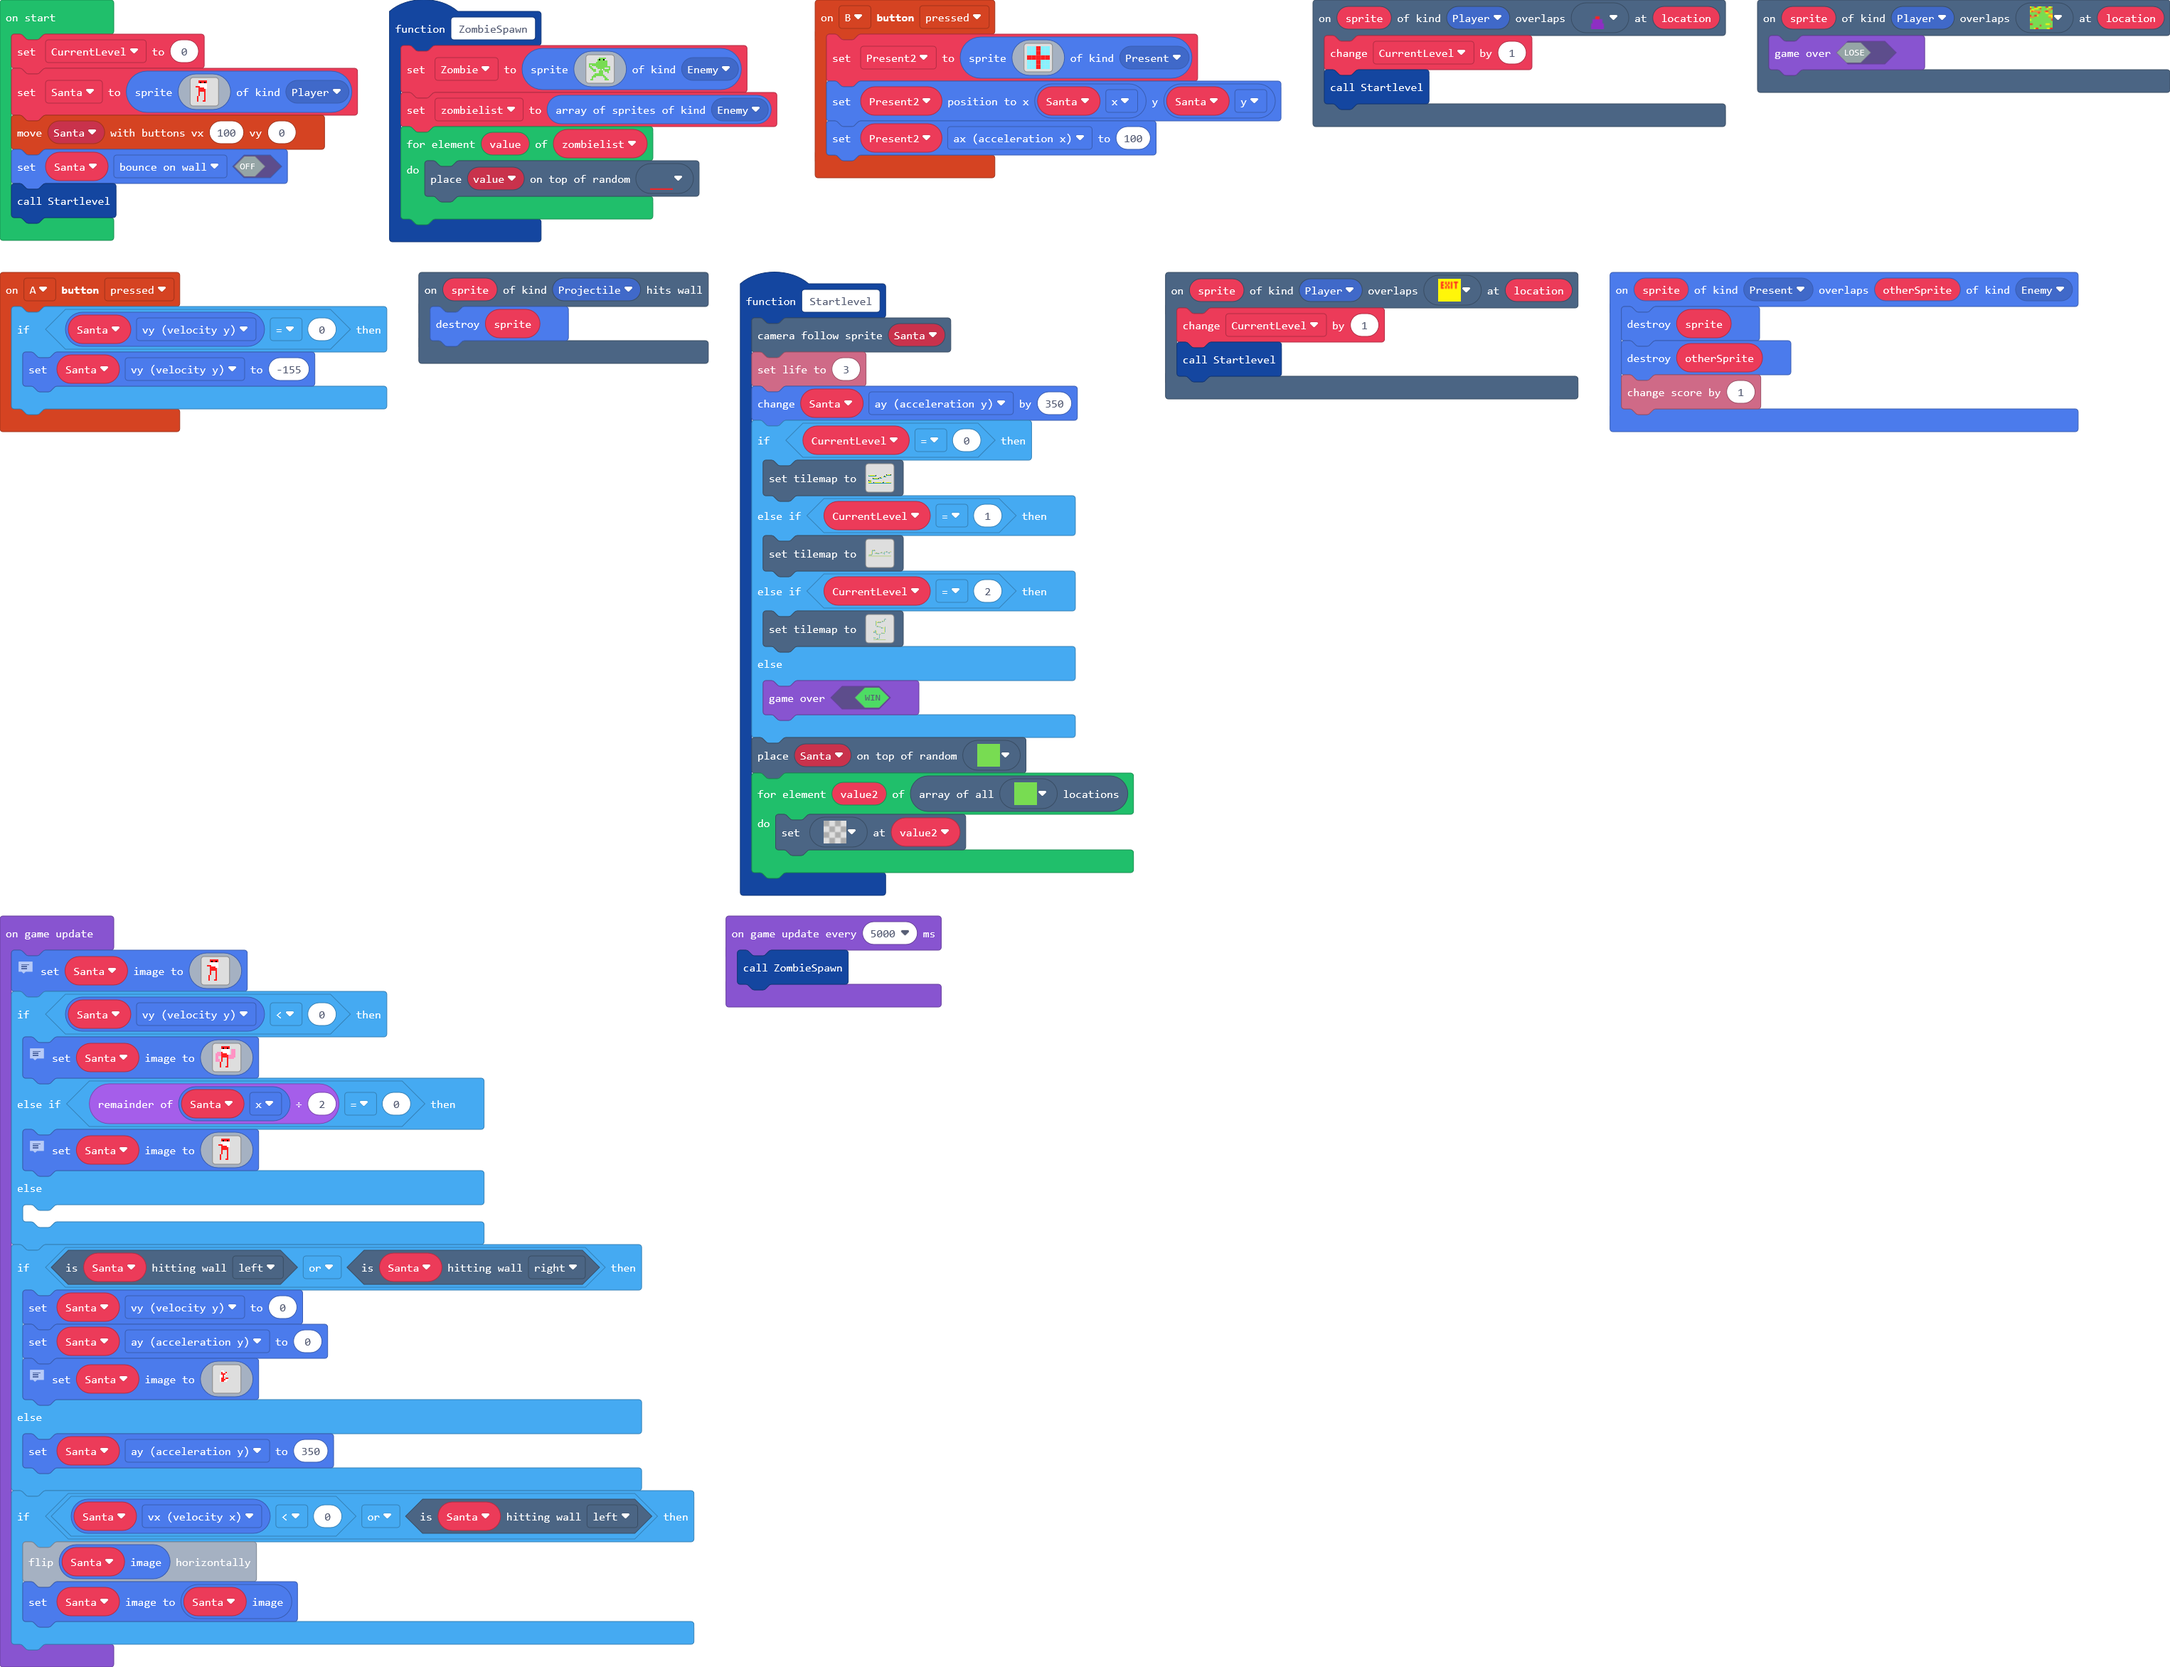
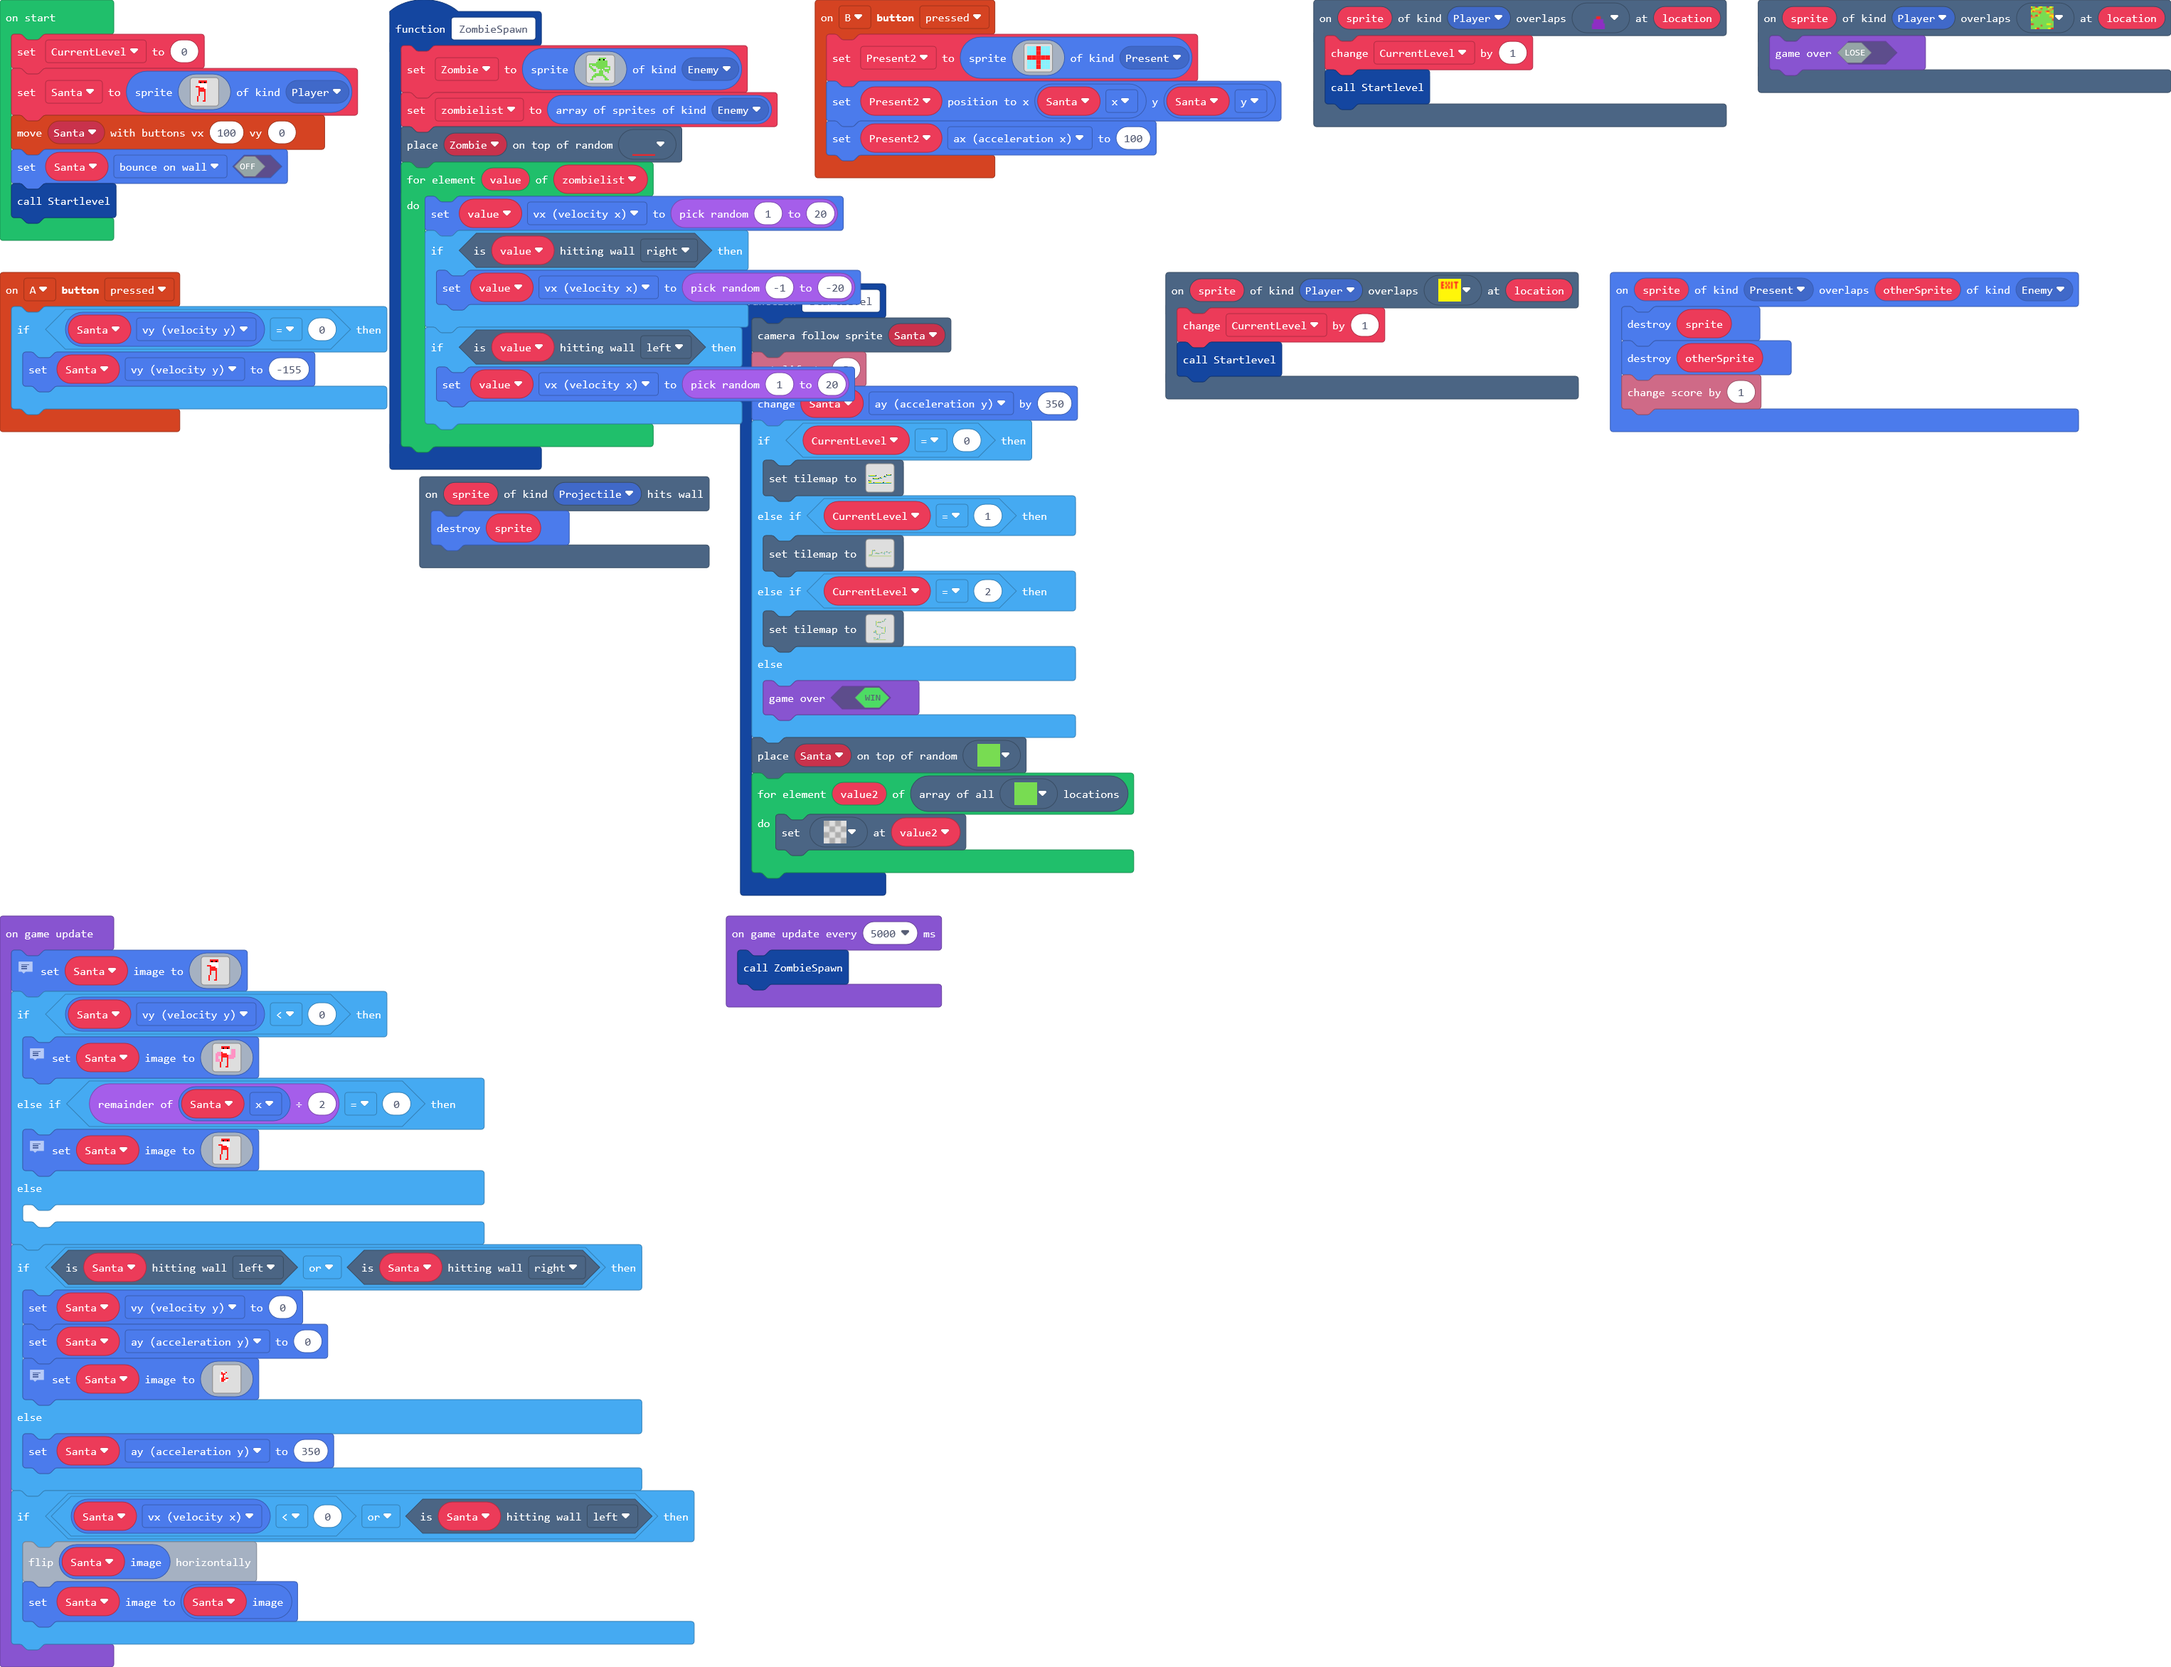
Enemy and movement

Changed region(s): [[0.1557, 0.0623, 0.4048, 0.3426]]

diff --git a/main.ts b/main.ts
@@ -175,10 +175,43 @@ function ZombieSpawn () {
 . 7 7 . . . . . . . . 7 7 7 . . 
 `, SpriteKind.Enemy)
     zombielist = sprites.allOfKind(SpriteKind.Enemy)
+    tiles.placeOnRandomTile(Zombie, myTiles.tile3)
     for (let value of zombielist) {
-        tiles.placeOnRandomTile(value, myTiles.tile3)
+        value.vx = Math.randomRange(1, 20)
+        if (value.isHittingTile(CollisionDirection.Right)) {
+            value.vx = Math.randomRange(-1, -20)
+        }
+        if (value.isHittingTile(CollisionDirection.Left)) {
+            value.vx = Math.randomRange(1, 20)
+        }
     }
 }
+controller.B.onEvent(ControllerButtonEvent.Pressed, function () {
+    Present2 = sprites.create(img`
+9 9 2 9 9 
+9 9 2 9 9 
+2 2 2 2 2 
+9 9 2 9 9 
+9 9 2 9 9 
+`, SpriteKind.Present)
+    Present2.setPosition(Santa.x, Santa.y)
+    Present2.ax = 100
+})
+scene.onOverlapTile(SpriteKind.Player, myTiles.tile5, function (sprite, location) {
+    CurrentLevel += 1
+    Startlevel()
+})
+scene.onOverlapTile(SpriteKind.Player, myTiles.tile6, function (sprite, location) {
+    game.over(false)
+})
+controller.A.onEvent(ControllerButtonEvent.Pressed, function () {
+    if (Santa.vy == 0) {
+        Santa.vy = -155
+    }
+})
+scene.onHitWall(SpriteKind.Projectile, function (sprite) {
+    sprite.destroy()
+})
 function Startlevel () {
     scene.cameraFollowSprite(Santa)
     info.setLife(3)
@@ -297,32 +330,6 @@ function Startlevel () {
         tiles.setTileAt(value2, myTiles.tile0)
     }
 }
-controller.B.onEvent(ControllerButtonEvent.Pressed, function () {
-    Present2 = sprites.create(img`
-9 9 2 9 9 
-9 9 2 9 9 
-2 2 2 2 2 
-9 9 2 9 9 
-9 9 2 9 9 
-`, SpriteKind.Present)
-    Present2.setPosition(Santa.x, Santa.y)
-    Present2.ax = 100
-})
-scene.onOverlapTile(SpriteKind.Player, myTiles.tile5, function (sprite, location) {
-    CurrentLevel += 1
-    Startlevel()
-})
-scene.onOverlapTile(SpriteKind.Player, myTiles.tile6, function (sprite, location) {
-    game.over(false)
-})
-controller.A.onEvent(ControllerButtonEvent.Pressed, function () {
-    if (Santa.vy == 0) {
-        Santa.vy = -155
-    }
-})
-scene.onHitWall(SpriteKind.Projectile, function (sprite) {
-    sprite.destroy()
-})
 scene.onOverlapTile(SpriteKind.Player, myTiles.tile2, function (sprite, location) {
     CurrentLevel += 1
     Startlevel()
